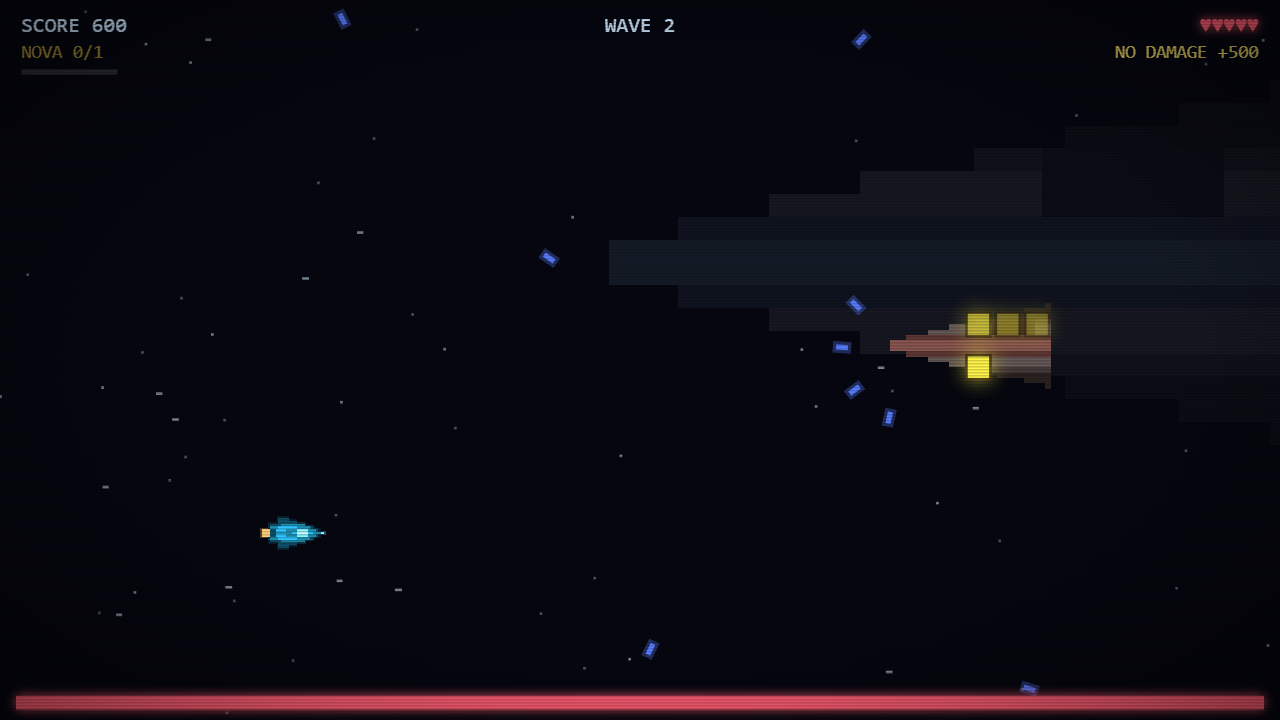
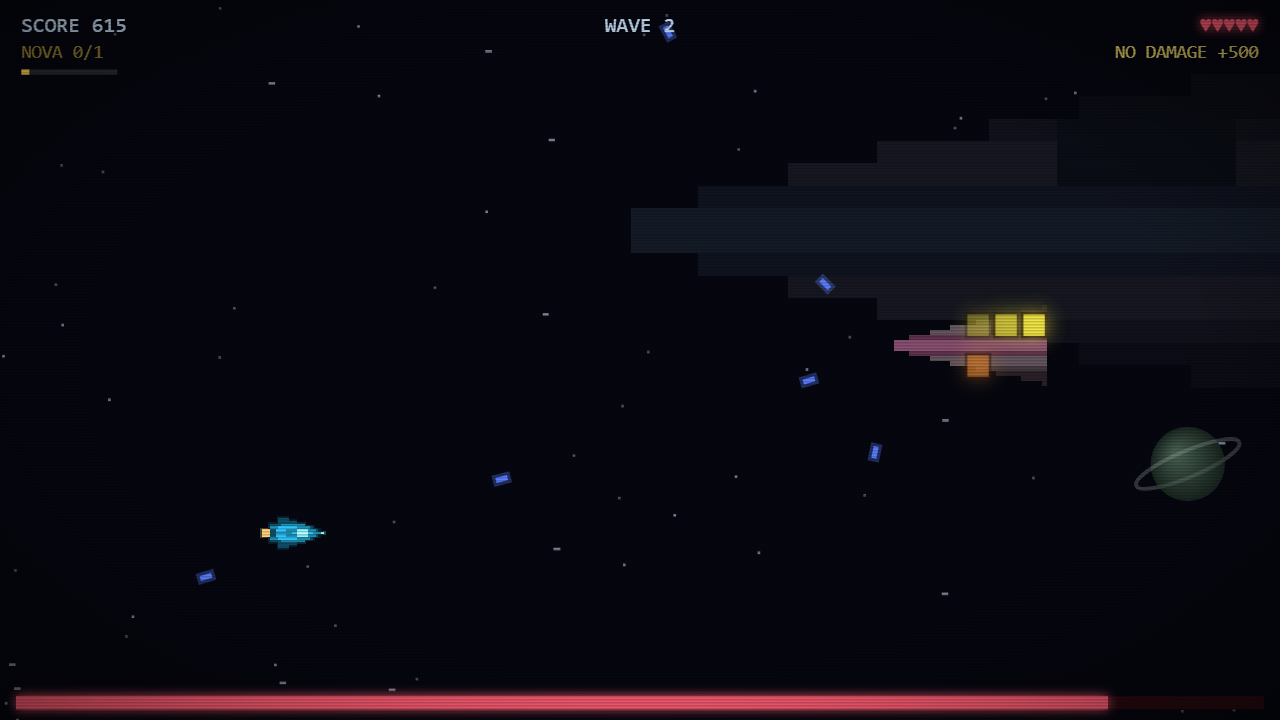
Kit presse : captures d'écran refaites avec le jeu actuel (v2.163)

diff --git a/CHANGELOG.md b/CHANGELOG.md
@@ -2,6 +2,9 @@
 
 Changements notables (gameplay, visuel, audio, infra), plus récent en premier. Le numéro de version est `2.<nombre de commits git>` : la CI le calcule et l'écrit dans le jeu en construisant l'image (`frontend/Dockerfile`). Une entrée porte donc le numéro du commit qui l'ajoute : le résultat de `git rev-list --count HEAD`, plus un. Avant 2.43, ou pour le détail d'une entrée condensée : `git log`.
 
+## [2.163] - 2026-10-09
+- Kit presse : captures d'écran refaites avec le jeu actuel (anneaux du niveau bonus aux nuances variées, éventail du premier boss).
+
 ## [2.162] - 2026-10-09
 - **Classement** : seuls les 40 premiers tirs frôlés de chaque vague rapportent des points (les suivants chargent encore NOVA) : rester devant un boss en frôlant ses tirs ne rapporte plus rien.
 - **Boss** : ses anneaux balaient l'écran au fil des salves, sans laisser de couloir sûr ; le premier boss retrouve des éventails plus légers (3 tirs, puis 5).
